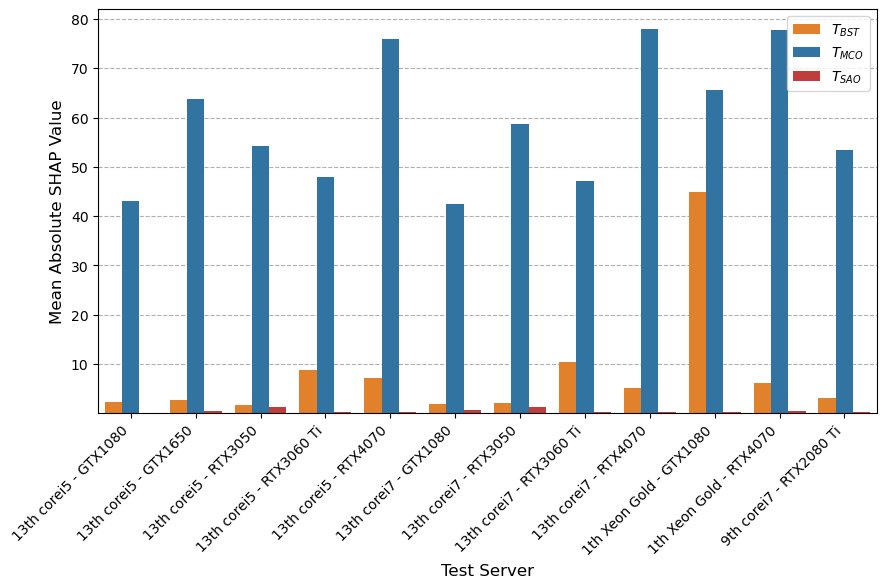
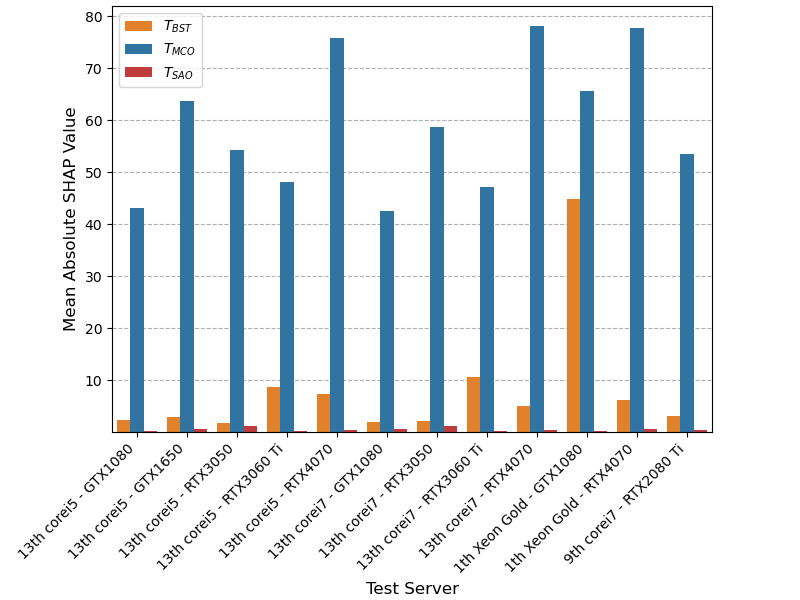
家で修正　コードの整理まだ

diff --git a/plot_mape_timecost_tradeoff.py b/plot_mape_timecost_tradeoff.py
@@ -28,7 +28,7 @@ def main():
     condition_other = ~condition_1 & ~condition_2 & ~condition_3  # その他は青
 
     # # グラフの描画
-    fig, ax = plt.subplots(figsize=(9, 6))
+    fig, ax = plt.subplots(figsize=(7, 6))
 
     # 青の点（それ以外）
     ax.scatter(df['Time Cost (s)'][condition_other],
@@ -40,18 +40,18 @@ def main():
     scatter_max = ax.scatter(df['Time Cost (s)'][condition_1],
                              df['average MAPE test (%)'][condition_1],
                              color='red',
-                             label=f"{', '.join(max_mape_list)}")
+                             label=f"[{', '.join(max_mape_list)}]")
 
     # 青の点 trade_off
     scatter_trade_off = ax.scatter(df['Time Cost (s)'][condition_2],
                                    df['average MAPE test (%)'][condition_2],
                                    color='blue',
-                                   label=f"{', '.join(trade_off_list)}")
+                                   label=f"[{', '.join(trade_off_list)}]")
     #オレンジcletの点
     scatter_cost_on = ax.scatter(df['Time Cost (s)'][condition_3],
                                  df['average MAPE test (%)'][condition_3],
                                  color='orange',
-                                 label=f"{', '.join(cost_on_list)}")
+                                 label=f"[{', '.join(cost_on_list)}]")
 
     # 各点の上に 'average MAPE test (%)' の値を表示（lightblueを除く）
     def adjust_text_position(x, y, color):
@@ -78,7 +78,7 @@ def main():
                         y_adj,
                         f'{mape_value:.2f}%',
                         color=color,
-                        fontsize=10,
+                        fontsize=12,
                         ha='left',
                         va='center')
 
@@ -93,6 +93,7 @@ def main():
     ax.set_ylim(min(df['average MAPE test (%)']) - 0.5, max(df['average MAPE test (%)']) + 0.5)
     ax.legend()
     plt.tight_layout()
+    plt.subplots_adjust(right=0.93)  # 余白調整
     # 画像として保存
     save_plot(fig, output_dir, 'timecost_mape_tradeoff.png')
     # 表示

diff --git a/mape_comparison_across_servers.py b/mape_comparison_across_servers.py
@@ -108,7 +108,7 @@ def prepare_data(df):
     Returns:
         pd.DataFrame: 変換後のデータフレーム。
     """
-    df['Benchmark Parameter Combinations'] = df['Variable Parameter'].apply(lambda x: get_label(x))
+    df['Benchmark Combinations'] = df['Variable Parameter'].apply(lambda x: get_label(x))
     return df
 
 
@@ -120,7 +120,7 @@ def plot_mape_comparison(df_filtered, output_dir):
         df_filtered (pd.DataFrame): フィルタリングされたデータフレーム。
         output_dir (str): グラフの保存先ディレクトリ。
     """
-    plt.figure(figsize=(9, 6))
+    plt.figure(figsize=(7, 6))
     ax = plt.gca()
     ax.grid(axis='y', linestyle='--', zorder=1)  # グリッドをzorder=1で描画
 
@@ -132,7 +132,7 @@ def plot_mape_comparison(df_filtered, output_dir):
     sns.barplot(
         x='Leave One',
         y='MAPE test (%)',
-        hue='Benchmark Parameter Combinations',
+        hue='Benchmark Combinations',
         data=df_filtered,
         palette=palette,
         order=SERVER_ORDER,
@@ -146,11 +146,12 @@ def plot_mape_comparison(df_filtered, output_dir):
     plt.ylabel('MAPE (%)', fontsize=12)
     plt.xticks(rotation=45, ha='right', fontsize=10)
     plt.tight_layout()
+    plt.subplots_adjust(left=0.14, right=0.9, bottom=0.28, top=0.99)  # 余白調整
 
     # グラフを保存
     os.makedirs(output_dir, exist_ok=True)
     output_path = os.path.join(output_dir, 'mape_comparison_operation_transfer.png')
-    plt.savefig(output_path, bbox_inches='tight', format='png')
+    plt.savefig(output_path, bbox_inches=None, format='png')
     plt.close()
 
 

diff --git a/shap_analysis_parameter_visualization.py b/shap_analysis_parameter_visualization.py
@@ -76,7 +76,7 @@ for inputs in unique_inputs:
     shap_df['Parameter'] = shap_df['Parameter'].apply(to_latex_subscript)
 
     # グラフ作成: 各サーバーごとにパラメータのSHAP値を棒グラフで表示
-    plt.figure(figsize=(9, 6))  # 各グラフごとにサイズを設定
+    plt.figure(figsize=(8, 6))  # 各グラフごとにサイズを設定
 
     # 軸オブジェクトを取得
     ax = plt.gca()
@@ -104,9 +104,10 @@ for inputs in unique_inputs:
     plt.ylabel('Mean Absolute SHAP Value', fontsize=12)
     plt.xticks(rotation=45, ha="right", fontsize=10)
     # 凡例の位置を右上に固定
-    plt.legend(loc='upper right')
+    plt.legend(loc='upper left')
 
     plt.tight_layout()
+    plt.subplots_adjust(left=0.14, right=0.89, bottom=0.28, top=0.99)  # 余白調整
 
     # 保存ファイル名の設定
     if roop_counter == 1:
@@ -115,7 +116,7 @@ for inputs in unique_inputs:
         save_path = os.path.join(output_dir, "shap_graph_transfer_and_operation.png")
 
     # 画像保存
-    plt.savefig(save_path, bbox_inches='tight')  # PNG形式で保存
+    plt.savefig(save_path, bbox_inches=None)  # PNG形式で保存
 
     # 現在の図をリセット
     plt.clf()  # 図をクリア

diff --git a/mape_boxplot_for_parameter_combinations.py b/mape_boxplot_for_parameter_combinations.py
@@ -74,7 +74,7 @@ def plot_combined_boxplot(df, output_dir):
         ordered=True)
 
     # 箱ひげ図を作成
-    plt.figure(figsize=(8, 6))  # 横幅を広げるために figsize を調整
+    plt.figure(figsize=(7, 6))  # 横幅を広げるために figsize を調整
     sns.boxplot(
         x='Model Label',
         y='MAPE test (%)',
@@ -98,7 +98,8 @@ def plot_combined_boxplot(df, output_dir):
     # グラフを保存
     output_file = os.path.join(output_dir, 'mape_boxplot.png')
     plt.tight_layout()
-    plt.savefig(output_file, bbox_inches='tight', format='png')  # png形式で保存
+    plt.subplots_adjust(left=0.09, right=0.94, bottom=0.33, top=0.99)  # 余白調整
+    plt.savefig(output_file, bbox_inches=None, format='png')  # png形式で保存
     print(f"Graph saved to {output_file}")
 
     # グラフを表示

diff --git a/mape_comparison_spec_barplot.py.py b/mape_comparison_spec_barplot.py.py
@@ -50,7 +50,7 @@ def main():
     combined_df = pd.concat([benchmark_filtered_df, spec_filtered_df])
 
     # 棒グラフの作成
-    plt.figure(figsize=(9, 6))
+    plt.figure(figsize=(7, 6))
     ax = plt.gca()
     ax.grid(axis='y', linestyle='--', zorder=1)  # グリッドをzorder=1で描画
     palette = ['#1f77b4', '#ff7f0e']
@@ -95,6 +95,7 @@ def main():
     plt.ylabel('MAPE (%)', fontsize=12)
     plt.xticks(rotation=45, ha='right', fontsize=10)
     plt.tight_layout()
+    plt.subplots_adjust(left=0.14, right=0.9, bottom=0.28, top=0.99)  # 余白調整
 
     # 出力ディレクトリの設定
     output_dir = './soturon_graph_data'

diff --git a/plot_high_precision_models.py b/plot_high_precision_models.py
@@ -80,7 +80,7 @@ def plot_feature_importance(high_precision_models, output_dir):
         feature for features in high_precision_models['Variable Parameter'] for feature in features
     ]).value_counts()
 
-    plt.figure(figsize=(8, 6))
+    plt.figure(figsize=(7, 6))
     ax = plt.gca()
     ax.grid(axis='y', linestyle='--', zorder=1)  # グリッドを zorder=1 に設定
     ax.bar(feature_counts.index, feature_counts.values, zorder=2)  # 棒グラフ
